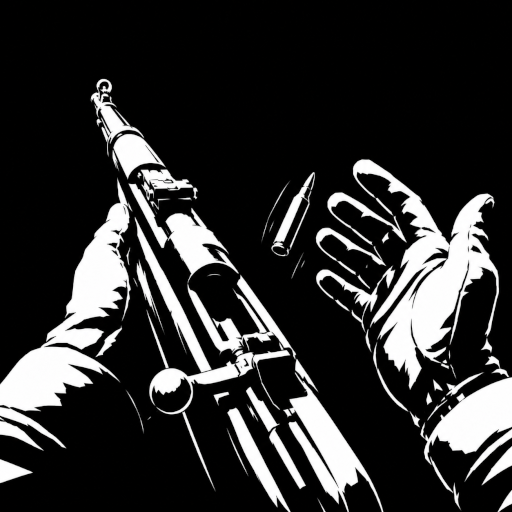
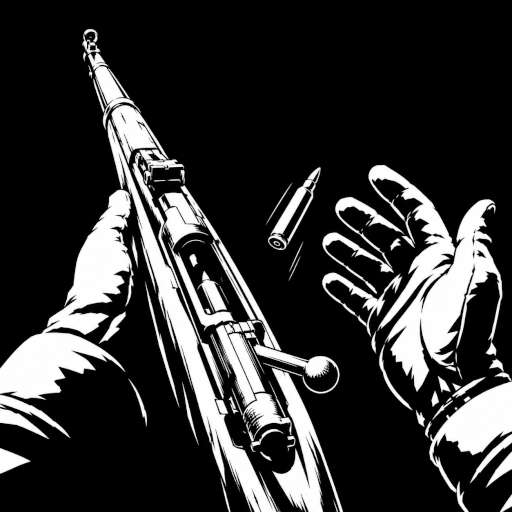
fix: Let the observed catch enter the discharge on its own

diff --git a/CatchChamberedRounds/Helpers/ObservedCatchOperation.cs b/CatchChamberedRounds/Helpers/ObservedCatchOperation.cs
@@ -7,8 +7,6 @@ namespace Tosox.CatchChamberedRounds.Helpers
 {
     internal class ObservedCatchOperation : Player.FirearmController.DischargeOperation
     {
-        private const string DischargeState = "DISCHARGE";
-
         private AnimatorProfile _profile;
 
         public ObservedCatchOperation(Player.FirearmController controller) : base(controller)
@@ -21,7 +19,7 @@ namespace Tosox.CatchChamberedRounds.Helpers
             base.Reset();
         }
 
-        internal void StartCatch(Ammo chambered, ItemAddress destination, AnimatorProfile profile)
+        internal void StartCatch(Ammo chambered, AnimatorProfile profile)
         {
             _profile = profile;
 
@@ -34,7 +32,7 @@ namespace Tosox.CatchChamberedRounds.Helpers
             var useLeftHand = hands != null
                 && hands.GetBool(AnimationControllerParametersTable.BOOL_USELEFTHAND);
 
-            Start(chambered, 0, destination, _ => { });
+            Start(chambered, 0, null, _ => { });
 
             Controller.IsAiming = aiming;
             Player.MovementContext.SetBlindFire(blindFire);
@@ -42,8 +40,6 @@ namespace Tosox.CatchChamberedRounds.Helpers
 
             if (hands != null)
                 AnimationControllerParametersTable.SetUseLeftHand(hands, useLeftHand);
-
-            EnterDischargeState();
         }
 
         // Fika fast forwards this the instant the owner's reload packet lands, which is the instant
@@ -52,14 +48,6 @@ namespace Tosox.CatchChamberedRounds.Helpers
         {
             Splice();
             base.FastForward();
-        }
-
-        public override void OnEnd()
-        {
-            // The discharge raises this to get the catch variant, and on a client that only watches
-            // there is no chambering afterwards to put it back down
-            Controller?.FirearmsAnimator?.LoadOneTrigger(false);
-            base.OnEnd();
         }
 
         private void Splice()
@@ -86,23 +74,6 @@ namespace Tosox.CatchChamberedRounds.Helpers
             var leavingState = current.shortNameHash;
 
             ReloadSplice.Arm(animator, _profile, Controller.AnimationEventsEmitter, leavingState);
-        }
-
-        // The transition out of idle only comes round on the loop, and the load-one flag sends it to
-        // the load-a-round branch anyway, so the state is entered rather than waited for
-        private void EnterDischargeState()
-        {
-            var unity = Controller?.FirearmsAnimator.UnityAnimator();
-            if (unity == null)
-                return;
-
-            var state = UnityEngine.Animator.StringToHash(DischargeState);
-            if (!unity.HasState(FirearmsAnimator.HANDS_LAYER_INDEX, state))
-                return;
-
-            // Cut rather than blend, so the hands layer arrives at the same instant the left hand
-            // reacts to the parameters instead of a tenth of a second behind it
-            unity.Play(state, FirearmsAnimator.HANDS_LAYER_INDEX, 0f);
         }
 
         private bool StowChamberedRound()

diff --git a/CatchChamberedRounds/Helpers/ChamberDischarge.cs b/CatchChamberedRounds/Helpers/ChamberDischarge.cs
@@ -110,7 +110,6 @@ namespace Tosox.CatchChamberedRounds.Helpers
             if (preview.Failed || preview.Value == null)
                 return Decline($"nowhere to put the round ({preview.Error?.ToString() ?? "no result"})");
 
-            // Without an address the discharge plays its eject variant and throws the round
             var destination = InventoryPlacement.AddressOf(preview.Value);
             if (destination == null)
                 return Decline($"could not read an address out of a {preview.Value.GetType().FullName}");
@@ -124,8 +123,10 @@ namespace Tosox.CatchChamberedRounds.Helpers
             if (Settings.VerboseLogging.Value)
                 Plugin.Log.LogInfo($"Catch starting: discharging {chambered.LocalizedName()} to {destination}");
 
+            // The discharge is not told where the round is going. An address would raise the load
+            // one flag, which starts the left hand on a feed the catch is about to replace
             var discharge = controller.InitiateOperation<CatchAndReloadOperation>();
-            discharge.StartCatch(chambered, destination, inventory, ammoPack, profile, callback, startCallback);
+            discharge.StartCatch(chambered, inventory, ammoPack, profile, callback, startCallback);
 
             CatchSync.AnimationCue?.Invoke(player.ProfileId, chambered.Id);
 
@@ -136,10 +137,6 @@ namespace Tosox.CatchChamberedRounds.Helpers
                                          Item chambered, AmmoPack ammoPack, Callback callback,
                                          Callback startCallback)
         {
-            // The catch is done and a reload follows instead of the chambering that would normally
-            // lower the flag and the reload drives its own trigger without ever touching this one
-            controller?.FirearmsAnimator?.LoadOneTrigger(false);
-
             if (result == null || result.Failed)
             {
                 _bypassArmed = false;

diff --git a/CatchChamberedRounds/Helpers/CatchAndReloadOperation.cs b/CatchChamberedRounds/Helpers/CatchAndReloadOperation.cs
@@ -42,16 +42,12 @@ namespace Tosox.CatchChamberedRounds.Helpers
 
         public override void OnEnd()
         {
-            // Nothing else puts the flag this operation raised back down once the weapon is someone
-            // else's problem and left up it wedges an empty one into a load-a-round loop
-            Controller?.FirearmsAnimator?.LoadOneTrigger(false);
-
             UnmarkWeapon();
             base.OnEnd();
         }
 
-        internal void StartCatch(Ammo chambered, ItemAddress destination, InventoryController inventory,
-            AmmoPack ammoPack, AnimatorProfile profile, Callback callback, Callback startCallback)
+        internal void StartCatch(Ammo chambered, InventoryController inventory, AmmoPack ammoPack,
+            AnimatorProfile profile, Callback callback, Callback startCallback)
         {
             _profile = profile;
             _ammoPack = ammoPack;
@@ -62,7 +58,7 @@ namespace Tosox.CatchChamberedRounds.Helpers
             _spliced = false;
             _spliceAttempted = false;
 
-            Start(chambered, 0, destination, new Callback(OnDischargeFinished));
+            Start(chambered, 0, null, new Callback(OnDischargeFinished));
 
             MarkWeapon();
         }
@@ -154,11 +150,6 @@ namespace Tosox.CatchChamberedRounds.Helpers
             State = Player.EOperationState.Finished;
 
             FirearmsAnimator.Discharge(false);
-
-            // Raised by the discharge to get the catch variant, and nothing downstream lowers it.
-            // Left up it wedges the weapon into a looping load-a-round animation.
-            FirearmsAnimator.LoadOneTrigger(false);
-
             FirearmsAnimator.SetAmmoInChamber(Weapon.ChamberAmmoCount);
             FirearmsAnimator.SetShellsInWeapon(Weapon.ShellsInWeaponCount);
 

diff --git a/CatchChamberedRounds/Helpers/ObservedCatch.cs b/CatchChamberedRounds/Helpers/ObservedCatch.cs
@@ -25,17 +25,11 @@ namespace Tosox.CatchChamberedRounds.Helpers
                 if (!(weapon.Chambers[0].ContainedItem is Ammo chambered) || chambered.Id != roundId)
                     return;
 
-                // A non-null address is all the discharge reads to pick the catch animation over the
-                // eject and it never moves the round itself
-                var destination = player.InventoryController?.CreateItemAddress();
-                if (destination == null)
-                    return;
-
                 // Read the same way the owner read it, so this client splices exactly where they do
                 var profile = AnimatorProfile.Read(controller.FirearmsAnimator.UnityAnimator());
 
                 controller.InitiateOperation<ObservedCatchOperation>()
-                    .StartCatch(chambered, destination, profile);
+                    .StartCatch(chambered, profile);
 
                 if (Settings.VerboseLogging.Value)
                     Plugin.Log.LogInfo($"Playing the catch of {player.Profile?.Nickname} on this client");
